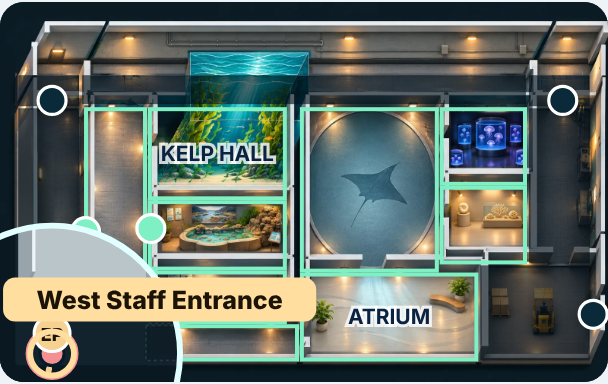
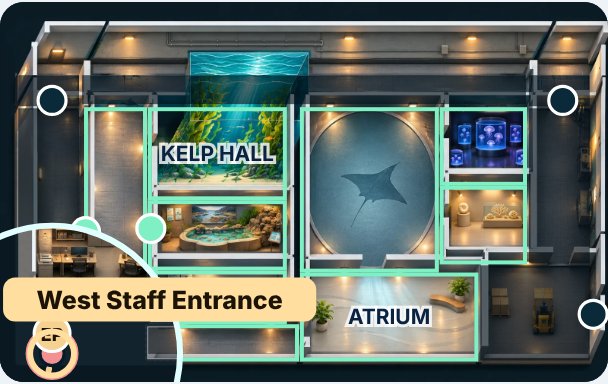
Cutaway spike: Level 2 review on master-L2-v3; spike lens shows painted L1; review-only L2 badges
Claude-Session: https://claude.ai/code/session_015gowGr7XErynRgXchMmhL4

Changed region(s): [[0.0312, 0.5938, 0.25, 0.75], [0.2188, 0.8438, 0.3125, 0.9375]]

diff --git a/docs/spikes/cutaway-poc.html b/docs/spikes/cutaway-poc.html
@@ -355,10 +355,10 @@ const SPIKE={geom:{"A": {"k": 0.78, "hI": 6, "hE": 24, "hF": 2, "hT": 30, "sh": 
    Not V2 code: an isolated proof of concept (docs/spikes/cutaway-poc.html). */
 (() => {
 const E = Engine, S = SCENARIOS, F = Flow, $ = id => document.getElementById(id), G = SPIKE.geom, IMG = SPIKE.img;
-const st = { v: 'A', art: 'treated', level: 1, inspect: false, lens: null, sel: null, badge: 'ok', walk: null, hits: false, timer: null };
+const st = { sc: 'elena', v: 'A', art: 'treated', level: 1, inspect: false, lens: null, sel: null, badge: 'ok', walk: null, hits: false, timer: null };
 const VIS_PX = 7, HIT_PX = 22, LENS_PX = 64, LABEL_PX = 10.5; // visible marker radius, hit radius, lens radius, label size (screen px)
-const BADGES = { ok: ['allStaff', 'education'], edu: ['education'], none: [] };
-const ticket = () => { const sc = S.elena, t = { person: E.clone(sc.person), world: { day: sc.day, date: sc.date, doorStatus: {}, groupOverrides: {} }, route: null };
+const BADGES = { ok: ['allStaff', 'education'], edu: ['education'], none: [], ops: ['exhibitOps'], dive: ['diveCrew'], av: ['tempExhibitAV'] };   // ops and dive reach Level 2 (review only: set through __spike.set)
+const ticket = () => { const sc = S[st.sc], t = { person: E.clone(sc.person), world: { day: sc.day, date: sc.date, doorStatus: {}, groupOverrides: {} }, route: null };
   t.person.credential.groups = [...BADGES[st.badge]]; return t; };
 const g = () => G[st.v], P = (x, y) => [x, g().off + g().k * y];
 const doorP = d => { const [x, y] = E.DOORS[d].p, [X, Y] = P(x, y); return [X + (g().sh || 0) * g().hI * 0.5, Y - g().hI * 0.5]; };
@@ -388,7 +388,7 @@ function draw() { const t0 = performance.now(), gg = g(), t = ticket(), fp = E.f
     s += `<circle class="door" data-door="${d}" cx="${x}" cy="${y}" r="${u(VIS_PX)}" fill="${gr ? '#7ff0c4' : '#0b2a39'}" stroke="#ffffff" stroke-width="${u(1.6)}"/>`; }
   // lens: a circle on screen showing the other level's image and doors
   if (st.inspect && st.lens) { const [lx, ly] = st.lens, r = u(LENS_PX), o = l === 1 ? 2 : 1;
-    s += `<clipPath id="lc"><circle cx="${lx}" cy="${ly}" r="${r}"/></clipPath><g clip-path="url(#lc)"><image href="${IMG[`${st.v}-L${o}`]}" width="400" height="${H}"/>
+    s += `<clipPath id="lc"><circle cx="${lx}" cy="${ly}" r="${r}"/></clipPath><g clip-path="url(#lc)"><image href="${IMG[`${st.v}-L${o}${o === 1 && st.art === 'painted' && IMG[`${st.v}-L1-painted`] ? '-painted' : ''}`]}" width="400" height="${H}"/>
       ${Object.keys(E.DOORS).filter(d => E.doorLevel(d) === o).map(d => { const [x, y] = doorP(d); return `<circle cx="${x}" cy="${y}" r="${u(VIS_PX)}" fill="#0b2a39" stroke="#fff" stroke-width="${u(1.6)}"/>`; }).join('')}</g>
       <circle class="lens" cx="${lx}" cy="${ly}" r="${r}" fill="none" stroke="#e2ffff" stroke-width="${u(3)}"/><text x="${lx}" y="${ly + r + u(14)}" text-anchor="middle" style="font:700 ${u(11)}px system-ui;fill:#e2ffff">${o === 2 ? 'ABOVE · L2' : 'BELOW · L1'}</text>`; }
   // walk route above the lens
@@ -404,7 +404,7 @@ function draw() { const t0 = performance.now(), gg = g(), t = ticket(), fp = E.f
   $('ev').innerHTML = evidence(t); $('lvl').textContent = `Level ${l}`; }
 
 function evidence(t) { const sel = st.sel; if (!st.inspect) return 'Turn on Inspect to tap doors or rooms.'; if (!sel) return 'Tap a door or room, drag the lens, or choose a door.';
-  if (sel.door) { const r = E.canEnter(t.world, t.person, sel.door, S.elena.time); return `<b>${esc(E.DOORS[sel.door].n)}</b> · ${r.ok ? 'opens' : 'denied · ' + r.code}`; }
+  if (sel.door) { const r = E.canEnter(t.world, t.person, sel.door, S[st.sc].time); return `<b>${esc(E.DOORS[sel.door].n)}</b> · ${r.ok ? 'opens' : 'denied · ' + r.code}`; }
   return `<b>${esc(E.SPACES[sel.space].n)}</b> · room`; }
 
 /* picking in screen pixels: nearest door marker within HIT_PX, else the room under the point (inverse projection) */
@@ -420,7 +420,7 @@ svg.addEventListener('pointerdown', e => { if (!st.inspect) return; drag = true;
 svg.addEventListener('pointermove', e => { if (!drag) return; const p = pt(e); st.lens = [p.x, p.y]; const n = pick(p.x, p.y, st.level); if (n && n.door) st.sel = n; draw(); });
 svg.addEventListener('pointerup', () => { drag = false; });
 $('pick').addEventListener('change', e => { const d = e.target.value; if (!d) return; st.level = E.doorLevel(d); st.sel = { door: d }; st.inspect = true; st.lens = doorP(d); sync(); draw(); });
-function walk() { clearTimeout(st.timer); const t = ticket(); st.walk = F.buildWalk(S.elena, t); st.level = 1; st.inspect = false; sync(); draw();
+function walk() { clearTimeout(st.timer); const t = ticket(); st.walk = F.buildWalk(S[st.sc], t); st.level = 1; st.inspect = false; sync(); draw();
   const tick = () => { const w = st.walk; if (w.i >= w.pts.length - 1) { w.running = false; $('wstat').textContent = w.res.stop ? `Walk stopped at ${E.DOORS[w.res.stop.door].n}.` : 'Walk complete: reached every stop.'; return; }
     w.i++; st.level = w.pts[w.i].l; draw(); st.timer = setTimeout(tick, 170); }; st.timer = setTimeout(tick, 150); }
 function sync() { for (const [id, k, v] of [['vA', 'v', 'A'], ['vB', 'v', 'B'], ['vC', 'v', 'C'], ['artT', 'art', 'treated'], ['artB', 'art', 'blockout'], ['artP', 'art', 'painted'], ['lv1', 'level', 1], ['lv2', 'level', 2]]) $(id).setAttribute('aria-pressed', st[k] === v);

diff --git a/spikes/cutaway/overlay.js b/spikes/cutaway/overlay.js
@@ -3,10 +3,10 @@
    Not V2 code: an isolated proof of concept (docs/spikes/cutaway-poc.html). */
 (() => {
 const E = Engine, S = SCENARIOS, F = Flow, $ = id => document.getElementById(id), G = SPIKE.geom, IMG = SPIKE.img;
-const st = { v: 'A', art: 'treated', level: 1, inspect: false, lens: null, sel: null, badge: 'ok', walk: null, hits: false, timer: null };
+const st = { sc: 'elena', v: 'A', art: 'treated', level: 1, inspect: false, lens: null, sel: null, badge: 'ok', walk: null, hits: false, timer: null };
 const VIS_PX = 7, HIT_PX = 22, LENS_PX = 64, LABEL_PX = 10.5; // visible marker radius, hit radius, lens radius, label size (screen px)
-const BADGES = { ok: ['allStaff', 'education'], edu: ['education'], none: [] };
-const ticket = () => { const sc = S.elena, t = { person: E.clone(sc.person), world: { day: sc.day, date: sc.date, doorStatus: {}, groupOverrides: {} }, route: null };
+const BADGES = { ok: ['allStaff', 'education'], edu: ['education'], none: [], ops: ['exhibitOps'], dive: ['diveCrew'], av: ['tempExhibitAV'] };   // ops and dive reach Level 2 (review only: set through __spike.set)
+const ticket = () => { const sc = S[st.sc], t = { person: E.clone(sc.person), world: { day: sc.day, date: sc.date, doorStatus: {}, groupOverrides: {} }, route: null };
   t.person.credential.groups = [...BADGES[st.badge]]; return t; };
 const g = () => G[st.v], P = (x, y) => [x, g().off + g().k * y];
 const doorP = d => { const [x, y] = E.DOORS[d].p, [X, Y] = P(x, y); return [X + (g().sh || 0) * g().hI * 0.5, Y - g().hI * 0.5]; };
@@ -36,7 +36,7 @@ function draw() { const t0 = performance.now(), gg = g(), t = ticket(), fp = E.f
     s += `<circle class="door" data-door="${d}" cx="${x}" cy="${y}" r="${u(VIS_PX)}" fill="${gr ? '#7ff0c4' : '#0b2a39'}" stroke="#ffffff" stroke-width="${u(1.6)}"/>`; }
   // lens: a circle on screen showing the other level's image and doors
   if (st.inspect && st.lens) { const [lx, ly] = st.lens, r = u(LENS_PX), o = l === 1 ? 2 : 1;
-    s += `<clipPath id="lc"><circle cx="${lx}" cy="${ly}" r="${r}"/></clipPath><g clip-path="url(#lc)"><image href="${IMG[`${st.v}-L${o}`]}" width="400" height="${H}"/>
+    s += `<clipPath id="lc"><circle cx="${lx}" cy="${ly}" r="${r}"/></clipPath><g clip-path="url(#lc)"><image href="${IMG[`${st.v}-L${o}${o === 1 && st.art === 'painted' && IMG[`${st.v}-L1-painted`] ? '-painted' : ''}`]}" width="400" height="${H}"/>
       ${Object.keys(E.DOORS).filter(d => E.doorLevel(d) === o).map(d => { const [x, y] = doorP(d); return `<circle cx="${x}" cy="${y}" r="${u(VIS_PX)}" fill="#0b2a39" stroke="#fff" stroke-width="${u(1.6)}"/>`; }).join('')}</g>
       <circle class="lens" cx="${lx}" cy="${ly}" r="${r}" fill="none" stroke="#e2ffff" stroke-width="${u(3)}"/><text x="${lx}" y="${ly + r + u(14)}" text-anchor="middle" style="font:700 ${u(11)}px system-ui;fill:#e2ffff">${o === 2 ? 'ABOVE · L2' : 'BELOW · L1'}</text>`; }
   // walk route above the lens
@@ -52,7 +52,7 @@ function draw() { const t0 = performance.now(), gg = g(), t = ticket(), fp = E.f
   $('ev').innerHTML = evidence(t); $('lvl').textContent = `Level ${l}`; }
 
 function evidence(t) { const sel = st.sel; if (!st.inspect) return 'Turn on Inspect to tap doors or rooms.'; if (!sel) return 'Tap a door or room, drag the lens, or choose a door.';
-  if (sel.door) { const r = E.canEnter(t.world, t.person, sel.door, S.elena.time); return `<b>${esc(E.DOORS[sel.door].n)}</b> · ${r.ok ? 'opens' : 'denied · ' + r.code}`; }
+  if (sel.door) { const r = E.canEnter(t.world, t.person, sel.door, S[st.sc].time); return `<b>${esc(E.DOORS[sel.door].n)}</b> · ${r.ok ? 'opens' : 'denied · ' + r.code}`; }
   return `<b>${esc(E.SPACES[sel.space].n)}</b> · room`; }
 
 /* picking in screen pixels: nearest door marker within HIT_PX, else the room under the point (inverse projection) */
@@ -68,7 +68,7 @@ svg.addEventListener('pointerdown', e => { if (!st.inspect) return; drag = true;
 svg.addEventListener('pointermove', e => { if (!drag) return; const p = pt(e); st.lens = [p.x, p.y]; const n = pick(p.x, p.y, st.level); if (n && n.door) st.sel = n; draw(); });
 svg.addEventListener('pointerup', () => { drag = false; });
 $('pick').addEventListener('change', e => { const d = e.target.value; if (!d) return; st.level = E.doorLevel(d); st.sel = { door: d }; st.inspect = true; st.lens = doorP(d); sync(); draw(); });
-function walk() { clearTimeout(st.timer); const t = ticket(); st.walk = F.buildWalk(S.elena, t); st.level = 1; st.inspect = false; sync(); draw();
+function walk() { clearTimeout(st.timer); const t = ticket(); st.walk = F.buildWalk(S[st.sc], t); st.level = 1; st.inspect = false; sync(); draw();
   const tick = () => { const w = st.walk; if (w.i >= w.pts.length - 1) { w.running = false; $('wstat').textContent = w.res.stop ? `Walk stopped at ${E.DOORS[w.res.stop.door].n}.` : 'Walk complete: reached every stop.'; return; }
     w.i++; st.level = w.pts[w.i].l; draw(); st.timer = setTimeout(tick, 170); }; st.timer = setTimeout(tick, 150); }
 function sync() { for (const [id, k, v] of [['vA', 'v', 'A'], ['vB', 'v', 'B'], ['vC', 'v', 'C'], ['artT', 'art', 'treated'], ['artB', 'art', 'blockout'], ['artP', 'art', 'painted'], ['lv1', 'level', 1], ['lv2', 'level', 2]]) $(id).setAttribute('aria-pressed', st[k] === v);

diff --git a/spikes/cutaway/l2-review.js b/spikes/cutaway/l2-review.js
@@ -1,0 +1,34 @@
+// Level 2 review of the painted master in the spike page: views, real taps, picker, marker clipping and spacing at 320 / 400 / desktop.
+// Usage: node spikes/cutaway/l2-review.js   -> docs/spikes/cutaway-shots/l2-review/*.png and l2-review.json
+// Badges: 'ops' = Exhibit Operations (west side of L2), 'dive' = Dive Crew (east side), 'av' = Temporary Exhibit AV.
+// Scenarios 'jordan' (AV vendor, 10:00) and 'marcus' (dive crew lead, 05:30) supply the walks.
+const { chromium } = require('playwright'), path = require('path'), fs = require('fs'), { pathToFileURL } = require('url');
+const U = pathToFileURL(path.join(__dirname, '../../docs/spikes/cutaway-poc.html')).href, O = path.join(__dirname, '../../docs/spikes/cutaway-shots/l2-review/');
+const E = require('../../src/engine.js'); fs.mkdirSync(O, { recursive: true }); const L2 = Object.keys(E.DOORS).filter(d => E.doorLevel(d) === 2);
+(async () => { const b = await chromium.launch(), out = { taps: {}, passage_tap: {}, picker: {}, clipped_markers: {}, closest_markers_px: {}, walks: {} };
+  for (const [tag, vw] of [['320', 320], ['400', 400], ['desktop', 1000]]) {
+    const pg = await (await b.newContext({ viewport: { width: vw, height: 900 }, deviceScaleFactor: 2, hasTouch: vw < 500 })).newPage(); await pg.goto(U);
+    const KEEP = { '320': null, '400': [], desktop: ['2-granted-ops', '3-granted-dive', '6-inspect-life-support', '8-lens-L1-over-reef'] }[tag];
+    const set = o => pg.evaluate(o => __spike.set(o), o), shot = async n => { if (KEEP && !KEEP.includes(n)) return; await pg.waitForTimeout(120); await pg.locator('.map').screenshot({ path: O + tag + '-' + n + '.png' }); };
+    const walked = async () => { await pg.evaluate(() => __spike.walk()); await pg.waitForFunction(() => __spike.st.walk.running === false, null, { timeout: 30000 }); return pg.evaluate(() => ({ status: document.getElementById('wstat').textContent, level: __spike.st.level })); };
+    const base = { sc: 'elena', v: 'C', art: 'painted', level: 2, inspect: false, lens: null, sel: null, walk: null };
+    await set({ ...base, badge: 'none' }); await shot('1-not-granted');
+    await set({ ...base, badge: 'ops' }); await shot('2-granted-ops');
+    await set({ ...base, badge: 'dive' }); await shot('3-granted-dive');
+    await set({ ...base, sc: 'jordan', badge: 'av' }); out.walks[tag] = { 'AV vendor to the catwalks (10:00)': await walked() }; await shot('4-walk-to-catwalks');
+    await set({ ...base, sc: 'marcus', badge: 'dive' }); out.walks[tag]['dive crew lead at 05:30'] = await walked(); await shot('5-walk-stopped');
+    await set({ ...base, badge: 'ops' }); await pg.evaluate(() => __spike.set({ inspect: true, sel: { door: 'D-QUAR' }, lens: __spike.doorP('D-QUAR') })); await shot('6-inspect-quarantine');
+    await set({ ...base, badge: 'dive' }); await pg.evaluate(() => __spike.set({ inspect: true, sel: { door: 'D-LIFE' }, lens: __spike.doorP('D-LIFE') })); await shot('6-inspect-life-support');
+    for (const [n, lv, p] of [['L2-over-reef', 2, [243, 123]], ['L2-over-atrium-void', 2, [256, 246]], ['L2-over-classroom-void', 2, [143, 227]], ['L2-over-west-core', 2, [32, 27]], ['L1-over-reef', 1, [243, 123]], ['L1-over-atrium', 1, [256, 246]], ['L1-over-west-core', 1, [32, 27]], ['L1-over-east-core', 1, [368, 27]]]) {
+      await set({ ...base, badge: 'ops', level: lv }); await pg.evaluate(p => __spike.set({ inspect: true, sel: null, lens: __spike.P(p[0], p[1]) }), p); await shot('8-lens-' + n); }
+    const box = await pg.locator('#ovl').boundingBox(), sc = box.width / 400, res = {}, pts = {};
+    for (const d of L2) { await set({ ...base, badge: 'ops', inspect: true }); const [x, y] = await pg.evaluate(d => __spike.doorP(d), d); pts[d] = [x * sc, y * sc];
+      await pg.mouse.click(box.x + x * sc, box.y + y * sc); res[d] = await pg.evaluate(() => __spike.st.sel && __spike.st.sel.door); }
+    out.taps[tag] = { doors: L2.length, wrong: Object.entries(res).filter(([d, g]) => g !== d).map(([d, g]) => d + ' -> ' + g) };
+    await set({ ...base, badge: 'ops', inspect: true }); { const [x, y] = await pg.evaluate(() => __spike.P(54, 141)); await pg.mouse.click(box.x + x * sc, box.y + y * sc); out.passage_tap[tag] = await pg.evaluate(() => JSON.stringify(__spike.st.sel)); }
+    const pick = {}; for (const d of L2) { await set({ ...base, level: 1, badge: 'ops' }); await pg.selectOption('#pick', d); pick[d] = await pg.evaluate(() => [__spike.st.sel && __spike.st.sel.door, __spike.st.level, __spike.st.inspect]); }
+    out.picker[tag] = { doors: L2.length, wrong: Object.entries(pick).filter(([d, v]) => v[0] !== d || v[1] !== 2 || v[2] !== true).map(([d]) => d) };
+    out.clipped_markers[tag] = L2.filter(d => pts[d][0] - 9 < 0 || pts[d][0] + 9 > box.width || pts[d][1] - 9 < 0 || pts[d][1] + 9 > box.height);
+    let best = [1e9]; for (const a of L2) for (const c of L2) if (a < c) { const dd = Math.hypot(pts[a][0] - pts[c][0], pts[a][1] - pts[c][1]); if (dd < best[0]) best = [Math.round(dd), a, c]; } out.closest_markers_px[tag] = best;
+    await pg.close(); }
+  fs.writeFileSync(O + 'l2-review.json', JSON.stringify(out, null, 1)); console.log(JSON.stringify(out, null, 1)); await b.close(); })();

diff --git a/docs/spikes/cutaway-findings.md b/docs/spikes/cutaway-findings.md
@@ -429,3 +429,71 @@ Source: `docs/spikes/cutaway-l2/source-west-return-1.png`. The editor repainted 
 - **The editor's version** (not used) drew a flight of stairs and a dark doorway on the back wall of both cores. The stairs are right in spirit; the doorway is an opening the engine does not have.
 - **Options:** (A) leave as is: the two levels agree, and the core is named by its label and its door marker. (B) a scripted stair cue, a few treads and a handrail against the back wall with no doorway, on both levels; L1 would have to be reopened for two small regions. (C) an editor pass per core: each landing is about 120 × 70 px, the size the editor places badly, and it has already invented a doorway there twice.
 - **Recommendation:** A for now. A stair cue is worth having, because the stairs are the only way between levels, but it is the same question on both levels and belongs with the integration decisions (labels, tap-to-identify), not with L2's art.
+
+---
+
+## Level 2 review on `master-L2-v3.png` (Nov 12)
+
+Views and results: `docs/spikes/cutaway-shots/l2-review/` (every state at 320 px, four desktop views, a contact sheet, `l2-review.json`), made by `spikes/cutaway/l2-review.js`. Stair cores: Option A approved, landings unchanged.
+
+To exercise Level 2 the spike page gained review-only badges (Exhibit Operations, Dive Crew, Temporary Exhibit AV) and can run another scenario's walk. One spike fault was found and fixed on the way: its lens showed the grey L1 blockout under L2, not the painted L1.
+
+### Recommendation: GO for L2 as the visual foundation, with the integration requirements below. No blockers.
+
+**1. Room function against the engine**
+
+| Space | Engine kind | Painted as | Match |
+| --- | --- | --- | --- |
+| Quarantine | restricted | isolation tanks, pipework, sink | yes |
+| Life support | restricted | pumps, filter vessel, skimmer column, control cabinet | yes |
+| Tank-top catwalks | staff | open reef tank top, grating, railed bridge | yes |
+| Dive locker | staff | wetsuits, cylinders, lockers, bench | yes |
+| Food prep | staff | steel counters, sinks, fridge, shelving | yes |
+| Ops offices | staff | desks, blank monitors, shelving, cupboard | yes |
+| West mezzanine | staff | lockers, cart, shelving, clear floor | yes |
+| East mezzanine | staff | shelving, dive-gear storage, clear floor | yes |
+| Cores | core | plain landings | plain by decision |
+
+No public cues anywhere on the level.
+
+**2 to 5. Footprints, walks, inspection, lens, doors**
+
+- **Footprints:** Exhibit Operations lights West mezzanine, Ops offices (through the open passage), Quarantine, Food prep and the catwalks; Dive Crew lights East mezzanine, Dive locker and the catwalks. Life support is lit by no badge, as the engine has it. Unlit rooms dim and stay recognisable.
+- **Walk:** the AV vendor's walk completes on L2 (stair, West mezzanine door, across the mezzanine, Tank-top west door, into the catwalk corridor), with the route on clear floor. The dive lead's 05:30 walk stops at the Loading dock on L1, as the engine decides. **Not exercised:** a walk that is stopped at an L2 door; no scenario in the spike produces one.
+- **Door taps:** 8 of 8 at each width (24 of 24). **Named-door picker:** 8 of 8 at each width; it switches to L2, turns on Inspect and selects the door.
+- **Lens, L1 to L2:** over the Reef Tunnel the ring and manta stay in place and the surface becomes lit water with the bridge. **L2 to L1:** over Quarantine it shows the Kelp Hall tank; over the Atrium void it shows the Atrium, in register with the void's own view; over the Classroom void likewise. Over a core it shows the other level's landing.
+- **Open passage (West mezzanine to Ops offices):** painted open at the engine's position; tapping it selects nothing.
+
+**6. Mobile readability**
+
+- No L2 door marker is clipped by the map edge at any width. The lens is clipped when it sits on Life support's door or on either core.
+- Closest markers: Quarantine and Tank-top west, 23 px at 320 px, 29 px at 400 px, 75 px at desktop.
+- At 320 px only Quarantine and Food prep get a label, and the Quarantine door marker covers the label's first letter. Six rooms, including restricted Life support, have none.
+
+**7. Seams and resampling:** no seam at room edges at desktop or 320 px; no furnishing visibly cut by a wall; the 15 to 17% stretches (Dive locker, East mezzanine west part, Ops offices) are not noticeable at either size.
+
+**Checks:** `shellreg.py` PASS; `connectivity.py` open on both levels; `test-composite.py` all pass; 9 geometry tests and 26 engine tests pass; L1 door taps still 21 of 21. No region is pending, so there is no mask to check.
+
+### Findings by class
+
+**BLOCKER:** none.
+
+**INTEGRATION REQUIREMENT**
+
+1. Canvas margin (carried from L1): lenses at Life support's door and at both cores are cut by the map edge.
+2. Labels at 320 px (carried): six of eight L2 rooms unlabelled; Life support, a restricted room, among them. Tap-to-identify must cover every room.
+3. Open-passage identification (carried): West mezzanine to Ops offices.
+4. Stair cores identified as the connection between levels without a painted staircase (new, from Option A).
+5. Restricted rooms: the art shows what Quarantine and Life support are, not that they are restricted. The classification has to come from the interface.
+6. Voids: each shows the L1 room below, dimmed, behind a rail. At 320 px the Atrium void can pass for an L2 room with plants and a bench. It has no door and is never lit, so it does not mislead about access, but a tap on it selects nothing. It should identify itself as open to the level below.
+7. Closest-door pair under 24 px at 320 px: the named-door picker stays mandatory (carried).
+8. The veil and footprint cover the catwalk room's water (accepted schematic behaviour); if the footprint is ever drawn per floor area, the water should be excluded.
+
+**COSMETIC BACKLOG**
+
+- Wall finish plainer than L1's painted walls (accepted).
+- The Quarantine label and its door marker overlap at 320 px.
+- West rooms' adjacent wall faces do not pick up their room light as the Stage 1 rooms' do.
+- Voids could be dimmed further.
+
+**Validation limitation (documented):** the compositor's fit-quality gate does not apply where fewer than 300 wall-cap pixels surround a region.

diff --git a/HANDOFF.md b/HANDOFF.md
@@ -2,7 +2,7 @@
 
 **As of:** Mon Oct 26, 2026 · **Owner:** Rone · **Status:** All four scenarios built (Elena, Cameron, Jordyn, Daniel). 26 engine tests + 46 browser tests (`npm run test:ui`, needs Playwright) green. Mobile pass done (pinned map, Badge/Inspect panes, map-first landscape). NOT yet done: real-device phone check, SME review, four-scenario learner walkthrough, cinematic visuals.
 
-> **Map redesign (Nov 10):** Phase 07 approved; cutover on HOLD. Direction: 2.5D architectural cutaway, approach A (illustrated layers over an engine blockout, live SVG above) approved; projection provisional. Feasibility: `docs/v2-map-cutaway-feasibility.md`. **Spike done, awaiting review:** `docs/spikes/cutaway-findings.md` (technical GO; first painted L1 concept registered: direction GO, image REVISE by masked correction of four mis-assigned rooms, the dock door and two passages; masks in `docs/spikes/cutaway-masks/`; correction passes 01 to 04 and 04b (the four room interiors) PASSED, and 06 Receiving PASSED, master is `master-L1-v7.png`; openings 05, 07, 08 are on the polish backlog (the chat image editor cannot make edits that small); L1 technical GO approved; visual lock on HOLD until the Service spine and West service hall read as staff space (L1 artwork APPROVED Nov 11, locked at `master-L1-v11.png`; region 12, a false wall inside the West gallery, fixed and L1 relocked at `master-L1-v11.png`). **L2:** plan approved with Option A; engine-walls approach (the engine owns walls and openings, the editor paints room interiors through engine-derived masks); `docs/spikes/cutaway-l2/master-L2-v3.png` has all eight rooms (Nov 12); stair-core landings are plain, decision pending; whole-level L2 review not yet done; no V2 integration; no L2 art until then; check each mask with `spikes/cutaway/maskcheck.py` first). Spike source `spikes/cutaway/`, page `docs/spikes/cutaway-poc.html`; not part of V2. General spacing pass deferred until the cutaway's visual weight is known.
+> **Map redesign (Nov 10):** Phase 07 approved; cutover on HOLD. Direction: 2.5D architectural cutaway, approach A (illustrated layers over an engine blockout, live SVG above) approved; projection provisional. Feasibility: `docs/v2-map-cutaway-feasibility.md`. **Spike done, awaiting review:** `docs/spikes/cutaway-findings.md` (technical GO; first painted L1 concept registered: direction GO, image REVISE by masked correction of four mis-assigned rooms, the dock door and two passages; masks in `docs/spikes/cutaway-masks/`; correction passes 01 to 04 and 04b (the four room interiors) PASSED, and 06 Receiving PASSED, master is `master-L1-v7.png`; openings 05, 07, 08 are on the polish backlog (the chat image editor cannot make edits that small); L1 technical GO approved; visual lock on HOLD until the Service spine and West service hall read as staff space (L1 artwork APPROVED Nov 11, locked at `master-L1-v11.png`; region 12, a false wall inside the West gallery, fixed and L1 relocked at `master-L1-v11.png`). **L2:** plan approved with Option A; engine-walls approach (the engine owns walls and openings, the editor paints room interiors through engine-derived masks); `docs/spikes/cutaway-l2/master-L2-v3.png` has all eight rooms (Nov 12); stair-core landings stay plain (Option A); L2 review done Nov 12, recommendation GO with eight integration requirements, awaiting Rone's approval; no V2 integration, cutover not authorised; no L2 art until then; check each mask with `spikes/cutaway/maskcheck.py` first). Spike source `spikes/cutaway/`, page `docs/spikes/cutaway-poc.html`; not part of V2. General spacing pass deferred until the cutaway's visual weight is known.
 > **V2 Phase 07 (polish) done Nov 10, approved Nov 10.** Lens layering (walk route, stopped-door ring, selection and its name drawn above the lens), lens may centre on edge doors, label flips above near the bottom edge; neutral N/A marker for Daniel's wait-route Verify on full and compact trackers (Flow.steps unchanged); enlarged desktop Verify map (the single map region moves into the Verify workspace at 1180px+, the column hides; other stages restore it); Elena's principle now "check the full granted footprint on both levels" (copy only, V1 text changes too). Pre-cutover checklist: `docs/v2-precutover-checklist.md`. Before/after: `docs/v2-review-shots/phase07/`.
 > **V2 Phase 06 done Nov 9, approved Nov 10.** Close/Submit/Record for all four: a facts-only case summary (no readiness verdict), the scenario's action (`closeAction`), `Flow.grade` on submit with four labelled outcomes (Closed, Closed with a cost, Needs correction, Not ready), and a record only for `Flow.finalized` results, built by `Flow.buildRecord` and shown as-is (display labels only: "Opens" is shown as "Doors in permissions"). Any badge, route or reason change clears result and record; Reset ticket restarts it. Elena's approved scanner moment and issuance record are ported unchanged from V1 (namespaced CSS), skippable, record-only on reopen and under reduced motion; focus lands on Record details. The template comparison is kept. The Shift Summary appears in the inbox once all four are finalized, as a system card. Phase 05 copy fix: a stopped walk now says "This door is included in the badge's permissions. Inspect it to find out why the walk stopped." Screenshots: `docs/v2-review-shots/phase06/`.
 > **V2 Phase 05 done Nov 9, approved Nov 9.** Walk test in Verify (Elena, Cameron, Daniel) and optional in Jordyn's Investigate; it animates in the single map (column, or the overlay on phones) and logs opened / didn't open, never why. Inspection lives in the global map region, so it is reachable from every stage: Inspect toggle, lens (drag, tap, arrow keys; the other level inside the lens), a "Inspect a door" list as the touch/keyboard alternative (every door reachable by name at 320px), a large name callout on the selected door, and V1's evidence panel, the only place a denial cause appears. Walk guard: stage/ticket change, logo, closing the map (button or Esc), browser Back and badge/route changes during a walk ask Continue test / Cancel walk; the walk pauses while asking, Cancel clears it (not verified). Engine, flow, scenarios and V1 untouched in this phase. Screenshots: `docs/v2-review-shots/phase05/`.
